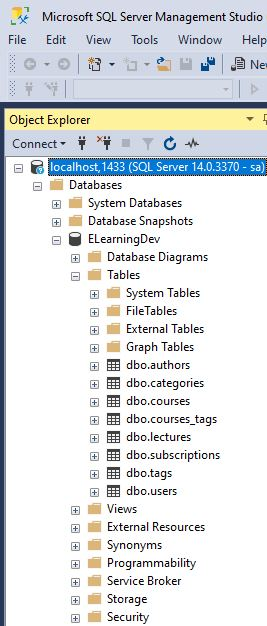
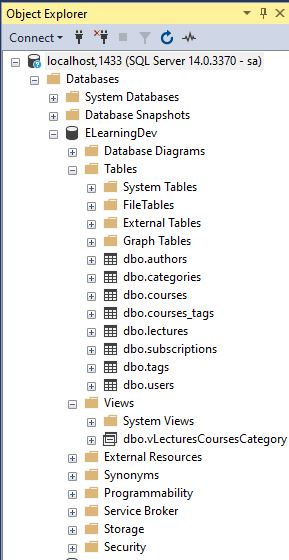
propagated new view to ELearningPortalDB project

diff --git a/3.db-project-advanced/ELearningPortalDB/README.md b/3.db-project-advanced/ELearningPortalDB/README.md
@@ -40,12 +40,12 @@ Based on the data modelling exercise:
 CREATE VIEW [dbo].[vLecturesCoursesCategory]
 AS
 SELECT        
-	dbo.categories.name AS [Category Name], 
-	dbo.courses.name AS [Course Name], 
-	dbo.courses.updatedOn AS [Course Last Updated On], 
-	dbo.lectures.name AS [Lecture Name], 
-    dbo.lectures.publishedOn AS [Lecture Published On], 
-	dbo.authors.name AS [Author Name]
+	dbo.categories.name AS [CategoryName], 
+	dbo.courses.name AS [CourseName], 
+	dbo.courses.updatedOn AS [CourseUpdatedOn], 
+	dbo.lectures.name AS [LectureName], 
+    dbo.lectures.publishedOn AS [LecturePublishedOn], 
+	dbo.authors.name AS [AuthorName]
 FROM 
 	dbo.categories 
     INNER JOIN dbo.courses 
@@ -58,25 +58,32 @@ FROM
 
 I can query this view like this:
 ```
-SELECT top 5
+SELECT 
+	V.CourseName,
+	V.CourseUpdatedOn,
+	V.CategoryName,
+	V.LectureName, 
+	V.LecturePublishedOn,	
+	V.AuthorName
 FROM dbo.vLecturesCoursesCategory AS V
-WHERE V.[Category Name] LIKE '%Back%End%'
+WHERE V.LectureName LIKE 'Clean Code'
+ORDER BY V.CourseUpdatedOn DESC
 ```
-ORDER BY V.[Course Last Updated On] DESC
 
 ## Publish a database project
  1. Right-click the ELearnigPortalDB project in Solution Explorer and select Publish. SSDT will start building your project. If there is no build error, the Publish Database dialog box appears.
  In the Publish Database dialog box, click Edit to edit the Target database connection.
 
-2. In the Connection Properties dialog box, enter your SQL Server instance name and your credentials for authentication. In Connect to a database, enter ELearningDev. This will attempt to publish your database project to a new database. You can also choose an existing database to publish to. For example, if you choose the existing ELearningDev database, then all the changes you have been making to the objects (as scripts) in the offline ELearningDev project will be propagated to the live ELearningDev database.
+2. In the Connection Properties dialog box, enter your SQL Server instance name and your credentials for authentication. In Connect to a database, enter `ELearningDev`. This will attempt to publish your database project to a new database. You can also choose an existing database to publish to, so that all the changes you have been making to the objects (as scripts) in the offline `ELearningPortalDB` project will be propagated to the live `ELearningDe` database.
 
-![DevPublishProfile](Images/dev-publish-profile.JPG)    
+    ![DevPublishProfile](Images/dev-publish-profile.JPG)    
 
-If you have permission to make any changes to the database you want to publish to, press the Publish button. If, however, you do not have write access to a production database, you can click the Generate Script button to produce a Transact-SQL publish script,`ELearningDev.publish.sql`, which can then be handed off to a DBA. The DBA can then run the script to update the production server so that its schema is in sync with the database project.
+    If you have permission to make any changes to the database you want to publish to, press the Publish button. If, however, you do not have write access to a production database, you can click the Generate Script button to produce a Transact-SQL publish script,`ELearningDev.publish.sql`, which can then be handed off to a DBA. The DBA can then run the script to update the production server so that its schema is in sync with the database project.
 
-![ELearningDevDatabase](Images/ELearningDev-Database.JPG)  
+    ![ELearningDevDatabase](Images/eLearningDev-database.JPG)  
 
 3. The Data Tools Operations window will show the progress of your publish operations, and notify you of any errors. In this new window, you can also choose to view the deployment preview, the generated script `ELearningDev.publish.sql`, or the full publish results if desired.
 
-4. You can also save the publish settings in a profile, so that you can reuse the same settings for future publish operations. To do so, click the Save Profile As button in the Publish Database dialog box to produce `ELearningDev.publish.xml`. In the future, you can click the Load Profile button when you want to reload existing settings.
+    ![DataToolsOperationsScreen.JPG](Images/data-tools-operations-screen.JPG)
 
+4. You can also save the publish settings in a profile, so that you can reuse the same settings for future publish operations. To do so, click the Save Profile As button in the Publish Database dialog box to produce `ELearningDev.publish.xml`. In the future, you can click the Load Profile button when you want to reload existing settings.
